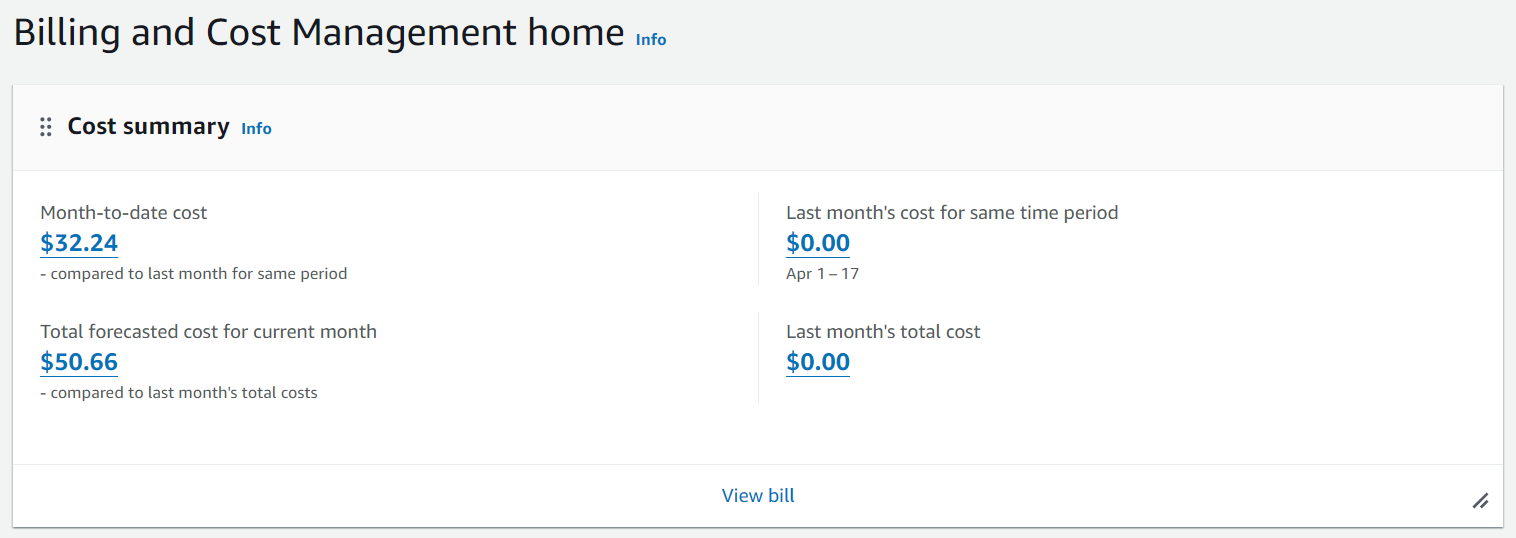
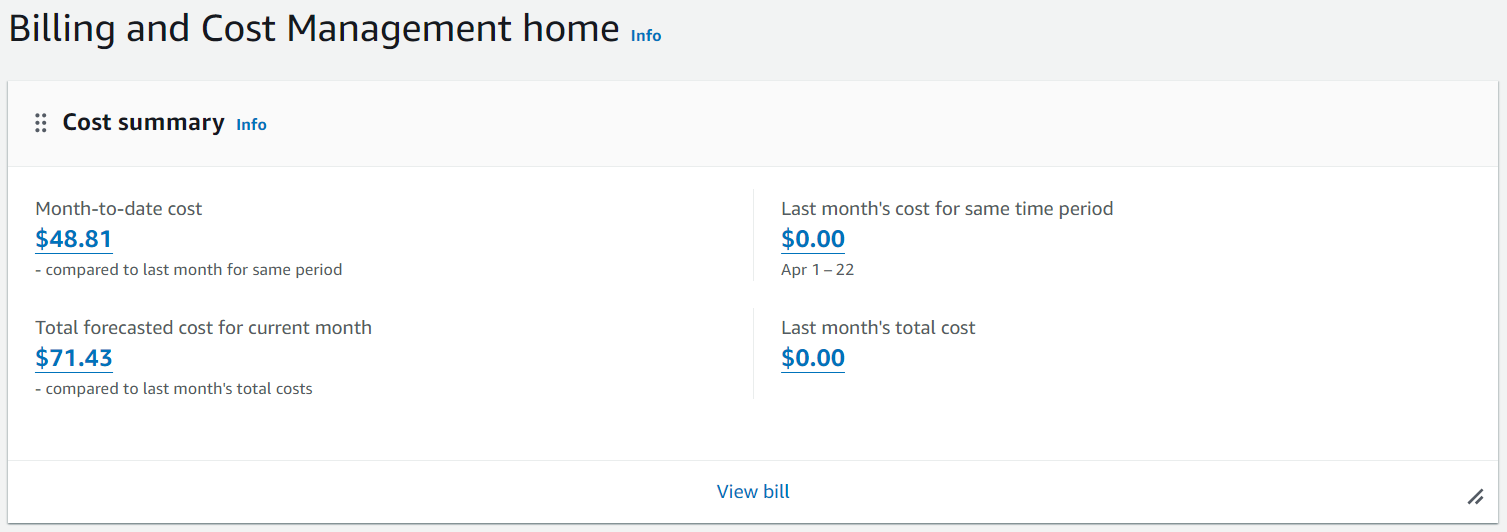
Atualizando custos

diff --git a/README.md b/README.md
@@ -247,6 +247,6 @@ Para acessar a aba de `Billing` da AWS, siga os passos abaixo:
 
 *Imagem Obtida na Data: 20/05/2024*
 
-Considerando que o uso de recursos se manterá como foi realizado no período de MTD (Month-to-date) atual, o custo mensal da aplicação seria de algo em torno de **$25,33 dólares/mês** (projeção da própria AWS com base no uso passado dos recursos considerando as duas contas - Minha e do Gustavo). Assim, é possível perceber que a projeção real de custos utilizando o billing é consideravelmente menor que utilizando a calculador de custos da AWS, que chegou em um valor de **$55,93 dólares/mês**.
+Considerando que o uso de recursos se manterá como foi realizado no período de MTD (Month-to-date) atual, o custo mensal da aplicação seria de algo em torno de **$35,66 dólares/mês** (projeção da própria AWS com base no uso passado dos recursos considerando as duas contas - Minha e do Gustavo). Assim, é possível perceber que a projeção real de custos utilizando o billing é consideravelmente menor que utilizando a calculador de custos da AWS, que chegou em um valor de **$55,93 dólares/mês**.
 
 No entanto é muito importante ressaltar que uma parte dessa projeção é imprecisa porque houve gastos que envolvem o aprendizado dos recursos da AWS, mas a realidade é que esses gastos não seriam recorrentes, logo o custo real da aplicação seria provavelmente menor do que o projetado pela AWS na aba de billing.
